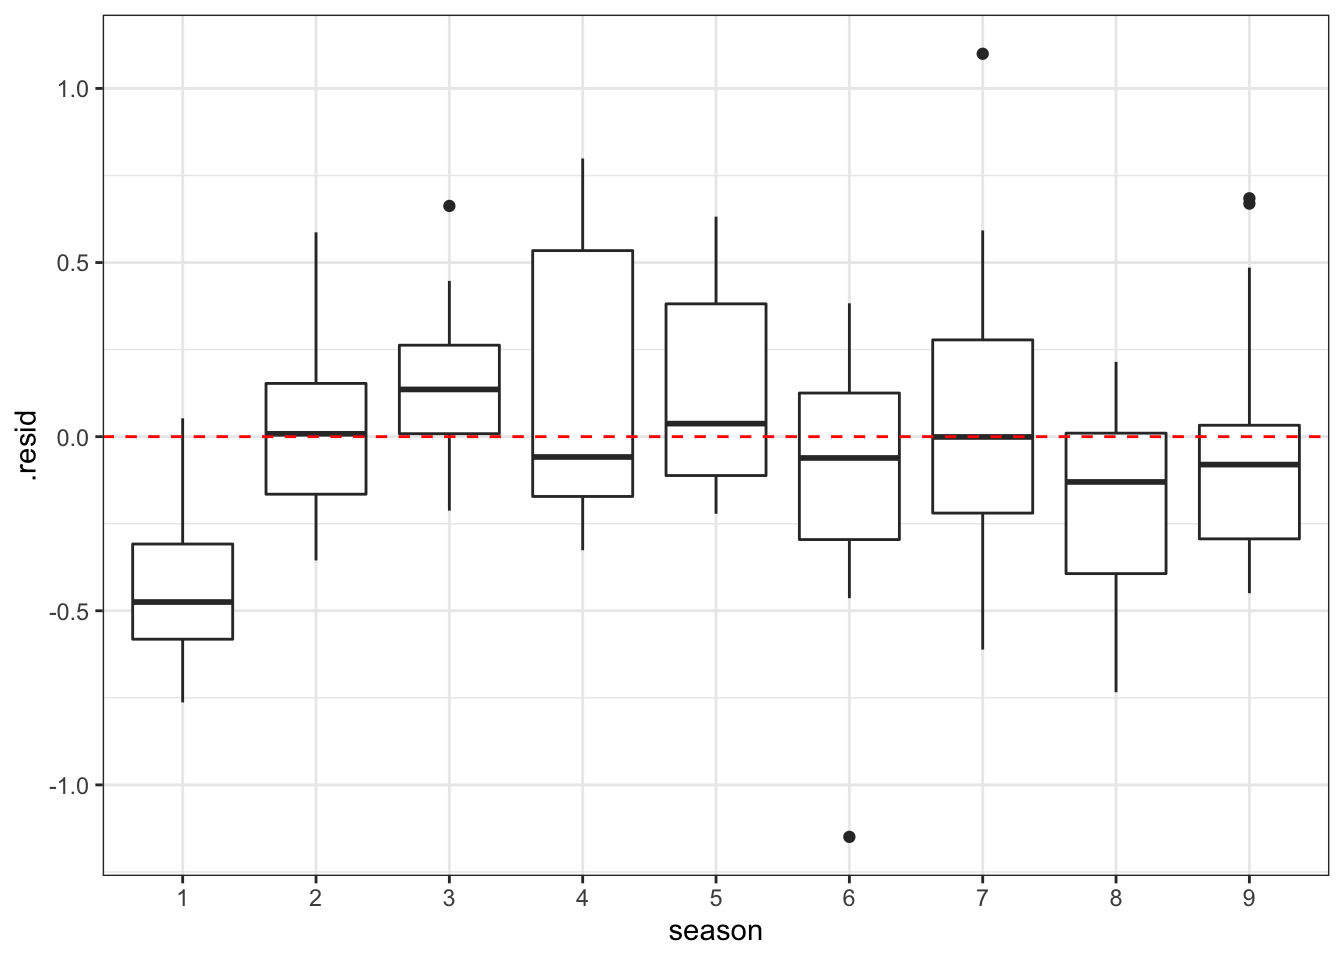
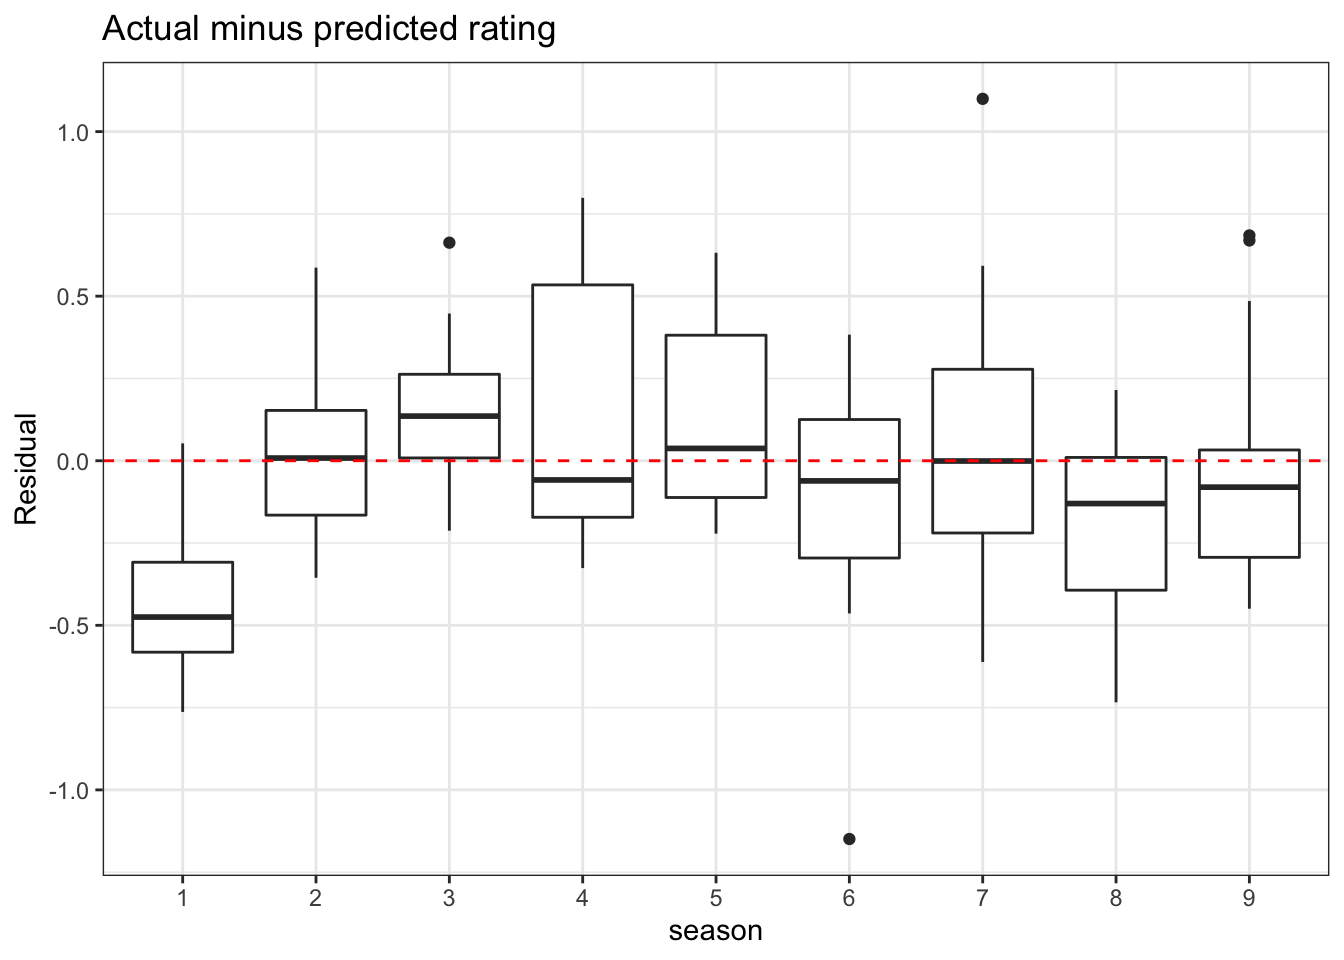
added titles and labels to graphs

diff --git a/content/post/2020-06-19-the-office.html b/content/post/2020-06-19-the-office.html
@@ -364,7 +364,9 @@ ridge_grid %&gt;%
     geom_abline(linetype = 2) +
     geom_point(alpha = .2) +
     geom_smooth() +
-    coord_equal()</code></pre>
+    coord_equal() +
+    labs(x = &quot;IMDB rating&quot;,
+         y = &quot;Predicted rating&quot;)</code></pre>
 <p><img src="/post/2020-06-19-the-office_files/figure-html/unnamed-chunk-19-1.png" width="672" /></p>
 <p>Examining the data by season shows that the model predicted <code>imdb_rating</code> reasonably well for most seasons. It overstimated season 1 and underestimated season 3.</p>
 <pre class="r"><code>final_ridge %&gt;% 
@@ -376,7 +378,9 @@ ridge_grid %&gt;%
   select(season, episode, .resid) %&gt;% 
   ggplot(aes(season, .resid)) +
     geom_boxplot() +
-    geom_hline(yintercept = 0, linetype = 2, color = &quot;red&quot;)</code></pre>
+    geom_hline(yintercept = 0, linetype = 2, color = &quot;red&quot;) +
+    labs(y = &quot;Residual&quot;,
+         title = &quot;Actual minus predicted rating&quot;)</code></pre>
 <p><img src="/post/2020-06-19-the-office_files/figure-html/unnamed-chunk-20-1.png" width="672" /></p>
 <p>This graph shows the variable importance, split by role:</p>
 <pre class="r"><code>df_vi &lt;- final_ridge %&gt;%
